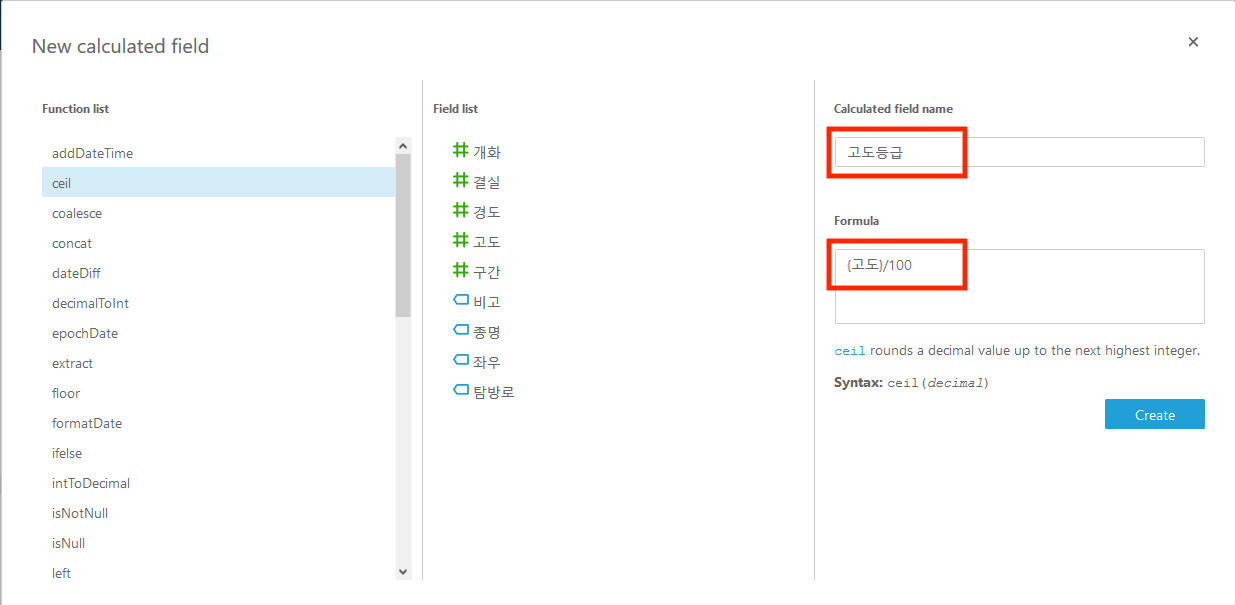
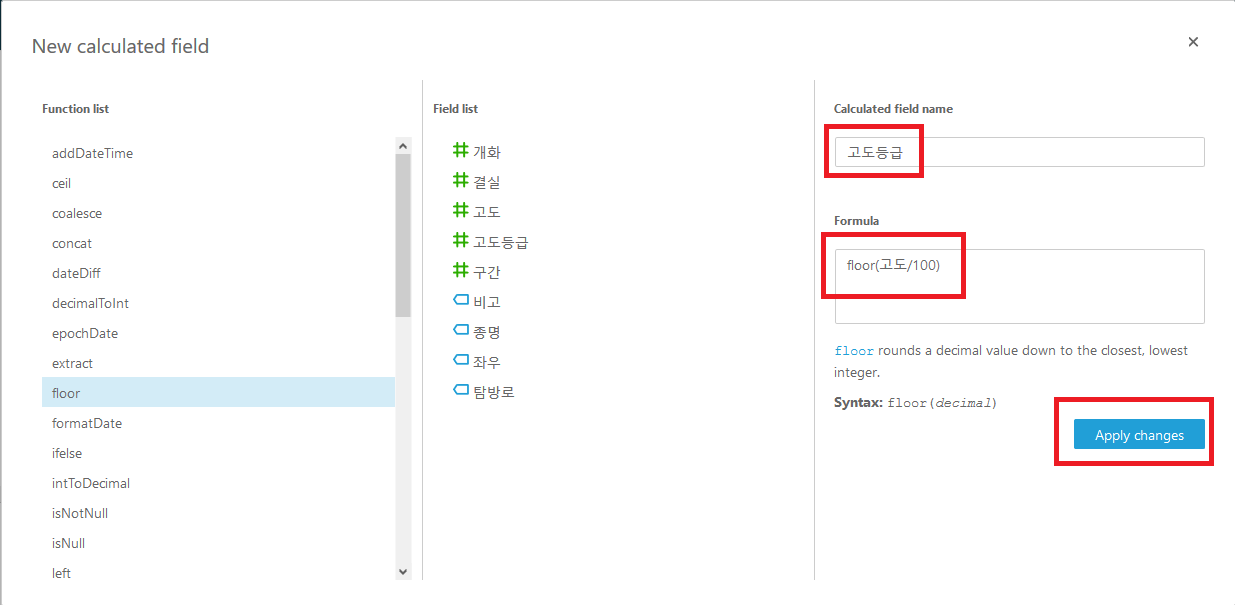
fix and add detail docs

diff --git a/Serverless/3_serverless_datalake/README.md b/Serverless/3_serverless_datalake/README.md
@@ -1,6 +1,7 @@
 # Serverless datalake : AWSKRUG Serverless hands-on #3
 
-오늘 구축할 구성
+본 핸즈온에서 만드는 구조도
+
 ![전체구조](images/mystructure.png)
 
 ## 목차
@@ -60,6 +61,7 @@
     - `User name*` 에 `datalake` 를 입력
     - `Access type*` 에 `Programmatic access` 을 체크
     - `Next Permissions` 클릭
+
       ![](images/iam-adduser-username.png)
 
 6. `Add user` 화면에서
@@ -80,6 +82,7 @@
 ### 계정 설정
 
 1. 이전에 생성한 `Cloud9` 창으로 돌아가서, 우측 상단에 있는 기어모양 아이콘을 클릭
+
     ![](images/cloud9-toggle-preferences.png)
 
 2. `Preferences` 대화상자가 나오면 좌측 메뉴에서 `AWS Settings` 클릭
@@ -113,17 +116,15 @@
 
 ### 소스 가지고 오기
 
-    ```
-    # environment 폴더에서
-    ec2-user:~/environment $ cd ~/environment
+```bash
+# environment 폴더에서
+ec2-user:~/environment $ cd ~/environment
 
-    # 소스를 가지고 옵니다. 
-    ec2-user:~/environment $ git clone https://github.com/awskrug/handson-labs-2018.git
-    Cloning into 'handson-labs-2018'...
-    ...
-    
-    ec2-user:~/environment $
-    ```
+# 소스를 가지고 옵니다. 
+ec2-user:~/environment $ git clone https://github.com/awskrug/handson-labs-2018.git
+Cloning into 'handson-labs-2018'...
+...
+```
 
 ## geoserver 배포
 * zappa, sls 설명
@@ -193,6 +194,7 @@
     - 좌측에서 `geoserver-dev` 클릭
     - 좌측에서 `Stages` 클릭
     - 우측 `Stages`에서 `dev` 클릭하면 우측에 `dev Stage Editor` 가 나옵니다.
+
       ![](images/apigateway-stage.png)
       `Invoke URL` 을 클릭하면 새 창이 뜹니다. 여기 주소가 `geoserver` 웹 접속 주소입니다. 이를 메모해 둡니다.
       
@@ -270,13 +272,14 @@
     [Athena Console](https://console.aws.amazon.com/athena/home) 열어도 됩니다.
 
 3. `Get Started` 클릭
+
    ![](images/athena-main.png)
 
 4. 콘솔이 나오면, 좌측 `Database` 패널 아래 `Create Table` 클릭
 
     검은 팝업 대화상자에서 `Manually` 클릭
      
-      ![](images/athena-addtable-0.png)
+    ![](images/athena-addtable-0.png)
 
 5. `Databases > Add table` 대화상자가 나옵니다.
     - `Step 1: Name & Location` 단계입니다.
@@ -297,12 +300,14 @@
           ![](images/geoserver-menu-2-json.png)
 
         - 모두 선택하였으면, `Next` 클릭
-        ![](images/athena-addtable-1.png)
+
+          ![](images/athena-addtable-1.png)
 
     - `Step 2: Data Format` 단계입니다.
         - `Data Format` 라디오박스에서 `JSON`을 선택
         - `Next` 클릭
-        ![](images/athena-addtable-2.png)
+
+          ![](images/athena-addtable-2.png)
 
     - `Step 3: Columns` 단계입니다.
 
@@ -320,6 +325,7 @@
             비고 string,
             고도 double
             ```
+
             ![](images/athena-addcolumns.png)
 
         - 그리고 `Add` 클릭
@@ -327,12 +333,14 @@
 
     - `Step 4: Partitions` 단계입니다.
         - 사용하지 않으므로, `Create table` 을 합니다.
-        ![](images/athena-addtable-4.png)
+
+          ![](images/athena-addtable-4.png)
 
     - 화면이 전환되고, `datalake` 데이터베이스의 `moodoong` 이라는 테이블이 생성됩니다.
       
-        - 우측 쿼리 창에는 이 테이블을 생성하는 DDL도 보입니다.
-        ![](images/athena-table-added.png)
+        - 우측 쿼리 창에는 이 테이블을 생성하는 DDL이 보입니다.
+
+          ![](images/athena-table-added.png)
 
 ### 데이터 조작
 - 이제, JSON 형식으로 변경된 관측 정보는 Athena 의 table 형식으로 접근하여 SQL형식으로 질의(query) 가능합니다.
@@ -442,18 +450,23 @@
 
   - `Welcome to QuickSight`를 비롯한 안내 대화상자는 `Next` 를 계속 클릭 후 사용토록 합니다.
   - `Sign up for QuickSight` 를 클릭
-      
+
     ![](images/qs-signup.png)
-     
-    - QuickSight account 를 생성 합니다.
-      
-      ![](images/qs-create-account.png)
-        
-      - `QuickSight account name` 은 `awskrug` 로
-      - `Notification email address` 는 사용하는 e-mail 을 넣습니다.
-      - `QuickSight capacity region` 은 `Asia Pacific(Singapore)`로
-      - `Amazon Athena` 를 체크
-      - `Finish` 클릭
+
+- QuickSight account 를 생성 합니다.
+
+    ![](images/qs-create-account.png)
+
+    - `QuickSight account name` 은 `awskrug` 로
+    - `Notification email address` 는 사용하는 e-mail 을 넣습니다.
+    - `QuickSight capacity region` 은 `Asia Pacific(Singapore)`로
+    - `Amazon Athena` 를 체크
+    - `Amazon S3` 를 체크하고, `Choose S3 Buckets` 한다.
+        - `Select Amazon S3 buckets` 팝업 대화상자가 나오고, `S3 buckets linked to QuickSight account` 를 클릭하여고, S3 버킷은 Athena 에서 사용한 것과 같은 것을 선택한다. 아래 그림에서는 예를 들어 `moodoong` 로 했다.
+
+          ![](images/qs-select-s3-buckets.png)
+
+    - `Finish` 클릭
 
       ![](images/qs-account-created.png)
 
@@ -481,25 +494,37 @@
     - `Import to SPICE for quicker analytics` 를 선택
         
         만약 그림과 같에 가용 공간이 없을 경우는, `Directly query your data` 선택 후 `Visualize` 클릭
-            > 단, 엄청 느리므로, 1.0 GB 당 0.25$ 이니 일단 구입하는 것도 권장
+
+        > 단, 엄청 느리므로, 1.0 GB 당 0.25$ 이니 일단 구입하는 것도 권장
 
         ![](images/qs-finish-data-set-creation.png)
 
 #### 데이터 필드 자료형 변경 및 가상 필드 추가
 
-  - 좌측 상단에 `Data set` 오른쪽에 연필 아이콘을 클릭하여 데이터 소스를 수정하여 `고도등급` 필드를 추가
-  
+  - 좌측 상단에 `Data set` 오른쪽에 연필 아이콘을 클릭하여 데이터 소스를 수정
+
     ![](images/qs-dataset-modify.png)
 
-    ![](images/qs-new-field.png)
+  - `Data sets in this analysis` 에서 `moodoong` 에서 우측 연필 아이콘을 클릭
 
-    다음과 같은 팝업 대화상자가 보이면, 대화상자 오른편에 연필 아이콘을 클릭
-    
-    ![](images/qs-dataset-modify-2.png)
+     ![](images/qs-dataset-modify-2.png)
+
+  - `Data source` 수정 화면에서 죄측 `Fields` 에 `New field` 클릭
+
+    ![](images/qs-datasource-newfield.png)
+
+ - `New calculated field` 대화상자에서 고도를 100m 단위로 구분짓는 `고도등급` 필드를 추가
+ 
+    - `Calculated field name` 에 `고도등급` 입력
+    - `Formula` 에 `floor(고도/100)` 입력
+    - `Apply changes` 클릭
+
+    ![](images/qs-new-field.png)
 
   - `경도`와 `위도`를 지형좌표 형식으로 변환합니다.
   
     ![](images/longitude.png)
+
     ![](images/latitude.png)
 
 #### 차트 제작
@@ -511,6 +536,7 @@
 
 전체 수량(KPI)
 - Value: 종명(Count)
+- Group/Color: 탐방로
 
 고도별등급별 분포비율(PIE)
 - GroupColor: 고도등급
